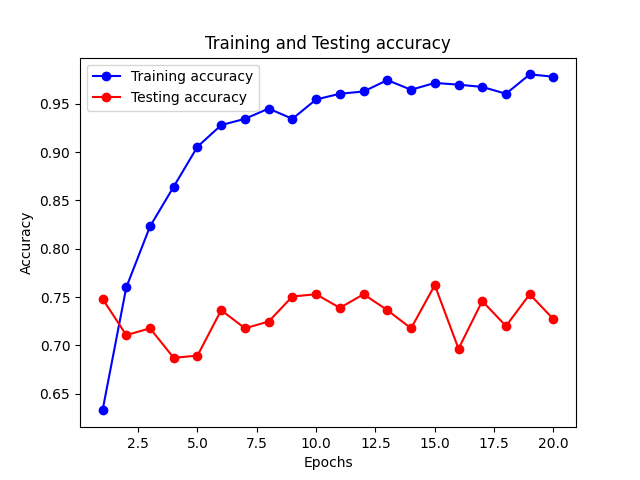
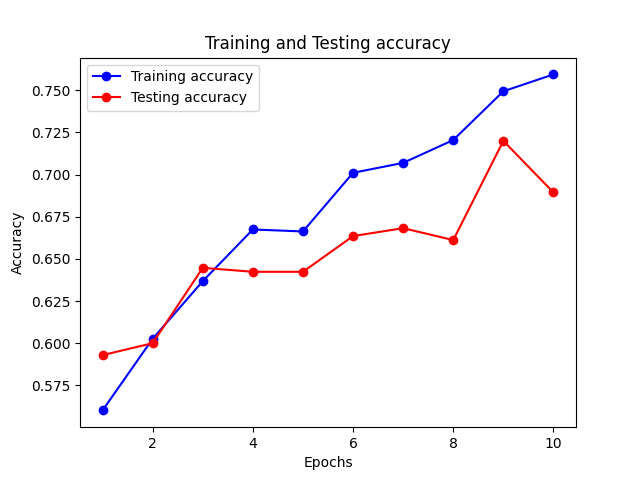
update

diff --git a/Interface/interface.py b/Interface/interface.py
@@ -79,14 +79,10 @@ class XGboostWindow(QMainWindow):
 
         pixmap_matbin = QPixmap('../Classificadores/XGB/Binary/Desempenho/confusion_matrix.png')
         pixmap_matsen = QPixmap('../Classificadores/XGB/MultiClass/Desempenho/confusion_matrix.png')
-        pixmap_accbin = QPixmap('../Classificadores/XGB/Binaray/Desempenho/confusion_matrix.png')
-        pixmap_accsen = QPixmap('../Classificadores/XGB/MultiClass/Desempenho/confusion_matrix.png')
 
         # Set the images to the labels
         self.matbin.setPixmap(pixmap_matbin)
         self.matsen.setPixmap(pixmap_matsen)
-        self.accbin.setPixmap(pixmap_accbin)
-        self.accsen.setPixmap(pixmap_accsen)
 
 class EffnetWindow(QMainWindow):
     def __init__(self):
@@ -100,8 +96,8 @@ class EffnetWindow(QMainWindow):
 
         pixmap_matbin = QPixmap('../Classificadores/CNN/Binary/Desempenho/confusion_matrix.png')
         pixmap_matsen = QPixmap('../Classificadores/CNN/MultiClass/Desempenho/confusion_matrix.png')
-        pixmap_accbin = QPixmap('../Classificadores/CNN/Binaray/Desempenho/confusion_matrix.png')
-        pixmap_accsen = QPixmap('../Classificadores/CNN/MultiClass/Desempenho/confusion_matrix.png')
+        pixmap_accbin = QPixmap('../Classificadores/CNN/Binary/Desempenho/train_test_acc.png')
+        pixmap_accsen = QPixmap('../Classificadores/CNN/MultiClass/Desempenho/train_test_acc.png')
 
         # Set the images to the labels
         self.matbin.setPixmap(pixmap_matbin)
@@ -178,26 +174,28 @@ class UI(QMainWindow):
     
 
 
-    def multiClassMapping(valor):
+    def multiClassMapping(self, valor):
         dicionario = {
-            1: "ASC-H",
-            2: "ASC-US",
-            3: "HSIL",
-            4: "LSIL",
-            5: "NEGATIVE",
-            6: "SCC"
+            0: "ASC-H",
+            1: "ASC-US",
+            2: "HSIL",
+            3: "LSIL",
+            4: "NEGATIVE",
+            5: "SCC"
         }
         if valor in dicionario:
+            print(dicionario[valor])
             return dicionario[valor]
         else:
             return "Valor não encontrado"
         
-    def binaryMapping(valor):
+    def binaryMapping(self, valor):
         dicionario = {
             0: "NEGATIVE",
             1: "POSITIVE"
         }
         if valor in dicionario:
+            print(dicionario[valor])
             return dicionario[valor]
         else:
             return "Valor não encontrado"
@@ -226,10 +224,6 @@ class UI(QMainWindow):
             table.setItem(1, 0, QTableWidgetItem(self.multiClassMapping(prediction_multi)))   # EFF NET 6
             table.setItem(2, 0, QTableWidgetItem(self.binaryMapping(previsao_binario)))   # XGBOOST
             table.setItem(3, 0, QTableWidgetItem(self.multiClassMapping(previsao_multiclasse)))  # XGBOOST 6
-            # table.setItem(0, 0, QTableWidgetItem(str(prediction_binary)))  # EFF NET 2
-            # table.setItem(1, 0, QTableWidgetItem(str(prediction_multi)))   # EFF NET 6
-            # table.setItem(2, 0, QTableWidgetItem(str(previsao_binario)))   # XGBOOST
-            # table.setItem(3, 0, QTableWidgetItem(str(previsao_multiclasse)))  # XGBOOST 6
 
 
     
@@ -242,9 +236,6 @@ class UI(QMainWindow):
             for file in files:
                 if file.lower().endswith('.png'):  # case-insensitive check
                     png_files.append(os.path.normpath(os.path.join(root, file)))
-        # files = [f for f in os.listdir(dataset_path) if os.path.isfile(os.path.join(dataset_path, f))]
-        # for file in files:
-        #     print(dataset_path +"/"+ file)
         
         # Load and display the image
         dataset = png_files
